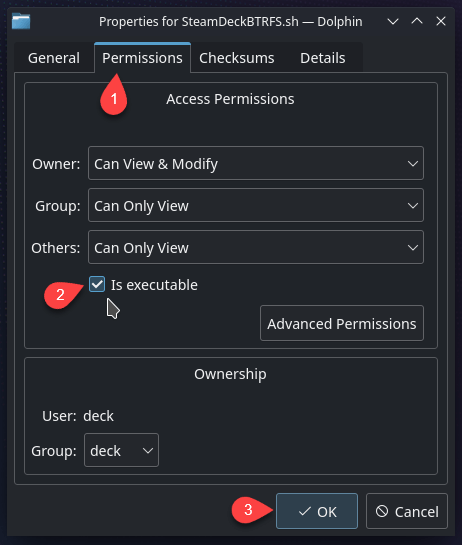
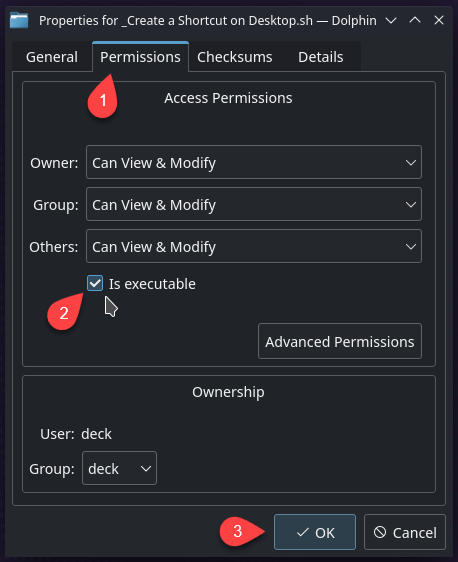
Updated to v2.0.5
* Added "_Create a Shortcut on Desktop.sh" script which does exactly what its name says;
* Added option that activates storing the last entered user custom password in an encrypted file;
* Applied some minor fixes to the app logic;

Changed region(s): [[0.0, 0.0, 0.9782, 0.9982], [0.9476, 0.0, 0.9782, 0.0624], [0.8865, 0.0312, 0.917, 0.0624]]

diff --git a/README.md b/README.md
@@ -19,15 +19,22 @@ Everything has been well explained in the
 [btrfdeck repository](https://github.com/Trevo525/btrfdeck) by [Trevo525](https://github.com/Trevo525). Instead of copy-pasting everything from there here and thus committing plagiarism, I will just encourage you to go there and read the original content of that repo.
 # :runner: Running the script
 Grab the [latest release](https://github.com/mi5hmash/SteamDeckBTRFS/releases/latest) and unpack it on your Steam Deck.
-Then right-click on the ***'SteamDeckBTRFS.sh'*** and select *"Properties"*. Navigate to "Permissions" tab and make sure that an "Is executable" checkbox is ticked.
+Then right-click on the ***'_Create a Shortcut on Desktop.sh'*** and select *"Properties"*. Navigate to "Permissions" tab and make sure that an "Is executable" checkbox is ticked.
 
 <img src="https://github.com/mi5hmash/SteamDeckBTRFS/blob/main/.resources/images/permissions.png" alt="permissions" width="415"/>
 
-Then click **OK** and once again right-click on the ***'SteamDeckBTRFS.sh'***, but this time select *"Run in Konsole"*. 
+Then click **OK** and once again right-click on the ***'_Create a Shortcut on Desktop'***, but this time select *"Run in Konsole"*.
+You can also click twice and execute that script. 
 
 <img src="https://github.com/mi5hmash/SteamDeckBTRFS/blob/main/.resources/images/run.png" alt="run" width="415"/>
 
-**Do not attempt to execute it by clicking twice on it, because this will run the script in a hidden window.**
+A desktop shortcut will be created.
+
+<img src="https://github.com/mi5hmash/SteamDeckBTRFS/blob/main/.resources/images/desktop_icon.png" alt="run" width="280"/>
+
+**Do not attempt to execute 'SteamDeckBTRFS.sh' by clicking twice on it, because this will run the script in a hidden window.**
+
+**Do not click on 'Add to Steam' and try to execute 'SteamDeckBTRFS.sh' from the Gaming Mode. It's meant to be run from the desktop.**
 
 # :alarm_clock: Updating the tool and getting the latest patch
 Starting from version 1.1.0, the script checks on each launch if a newer release is available. If so, it asks the user for permission to download and update the tool. 
@@ -48,7 +55,7 @@ Makes a backup of script files and stores it in the ***"./backup/"*** directory.
 ### 3. Restore backupped scripts
 Restores a backup, chosen from a ***"./backup/"*** directory.
 ## Hidden functions
-You can make the program display these options in the main menu by setting the "SHOW_HIDDEN_OPTIONS" flag to "1" in the "settings.json" file.
+You can make the program display these options in the main menu by setting the **"SHOW_HIDDEN_OPTIONS"** flag to **"1"** in the ***"settings.json"*** file.
 ### 97. Toggle steamos-readonly status
 Allows you to change the steamos-readonly status to the opposite of the current one.
 ### 98. Prepare a workbench
@@ -66,7 +73,10 @@ After completion of each function, you will be asked if that's all for now. You 
 # :mega: Additional notes
 ## Password and root privileges
 A majority of options require root privileges. If you've already set your custom password, the script will ask you to type it. It will be stored as an encrypted variable for the time of running the script. Otherwise, the script will use the default password which is **"GabeNewell#1"**. Unless you're using your own password, it will be removed at the end of each option execution.
-## Adding own patches
+## Enabling password remembering
+By default, remembering the user's custom password is disabled.
+You can change it by setting the **"REMEMBER_PASSWORD"** flag to **"1"** in the ***"settings.json"*** file. After the change, the script will remember the next password you typed and save it in the encrypted ***".user.sec"*** file.
+## Adding your own patches
 The tool uses the data from the ***"./patches/_patches.csv"*** file to identify the correct patch. Info about patches created with a workbench is added to the ***"./patches/_patches_own.csv"*** file. That file overrides data from the first mentioned file.
 The structure of both files is as follows:
 ```markdown
